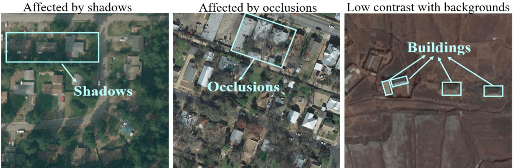
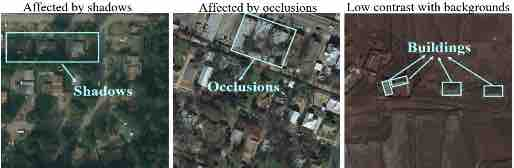
x

diff --git a/index.html b/index.html
@@ -910,7 +910,7 @@
 					<tr class="paper2">
 						<td class="pub_td1">
 							<div class="teaser_img_div"><a href="https://arxiv.org/abs/2112.10143"><img class="teaser_img"
-										src='images/paper/2022roboAssembly.gif' /></a></div>
+										src='images/paper/2022roboAssembly-min.png' /></a></div>
 						</td>
 						<td class="pub_td2"><b>RoboAssembly: Learning Generalizable Furniture Assembly Policy in a Novel Multi-robot
 								Contact-rich Simulation Environment</b><br>Mingxin Yu*, Lin Shao*, Zhehuan Chen, Tianhao Wu, Qingnan
@@ -923,7 +923,7 @@
 					<tr class="paper1">
 						<td class="pub_td1">
 							<div class="teaser_img_div"><a href="https://arxiv.org/pdf/2209.12941.pdf"><img class="teaser_img"
-										src='images/paper/2022RLAfford.png' /></a></div>
+										src='images/paper/2022RLAfford-min.png' /></a></div>
 						</td>
 						<td class="pub_td2"><b>RLAfford: End-to-End Affordance Learning for Robotic Manipulation</b>
 							<br>Yiran Geng, Boshi An, Haoran Geng, Yuanpei Chen, Yaodong Yang, Hao Dong<br>
@@ -1059,7 +1059,7 @@
 					<tr class="paper1">
 						<td class="pub_td1">
 							<div class="teaser_img_div"><a href="https://arxiv.org/abs/2106.14440"><img class="teaser_img"
-										src='images/paper/2022vat-mart-min.gif' /></a></div>
+										src='images/paper/2022vat-mart-min.png' /></a></div>
 						</td>
 						<td class="pub_td2"><b>VAT-Mart: Learning Visual Action Trajectory Proposals for Manipulating 3D Articulated
 								Objects</b><br>Ruihai Wu, Yan Zhao, Kaichun Mo, Zizheng Guo, Yian Wang, Tianhao Wu, Qingnan Fan, Xuelin
